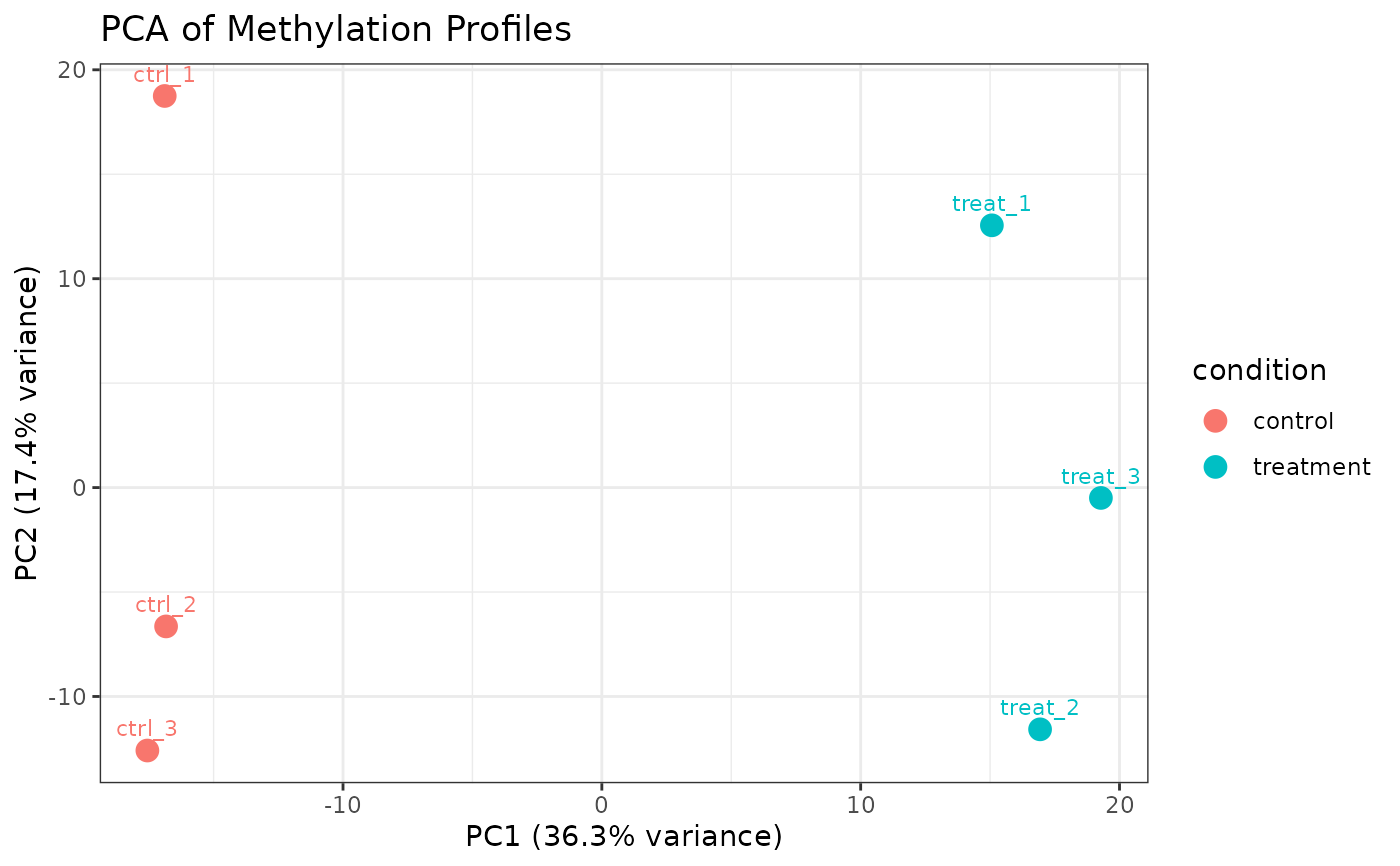
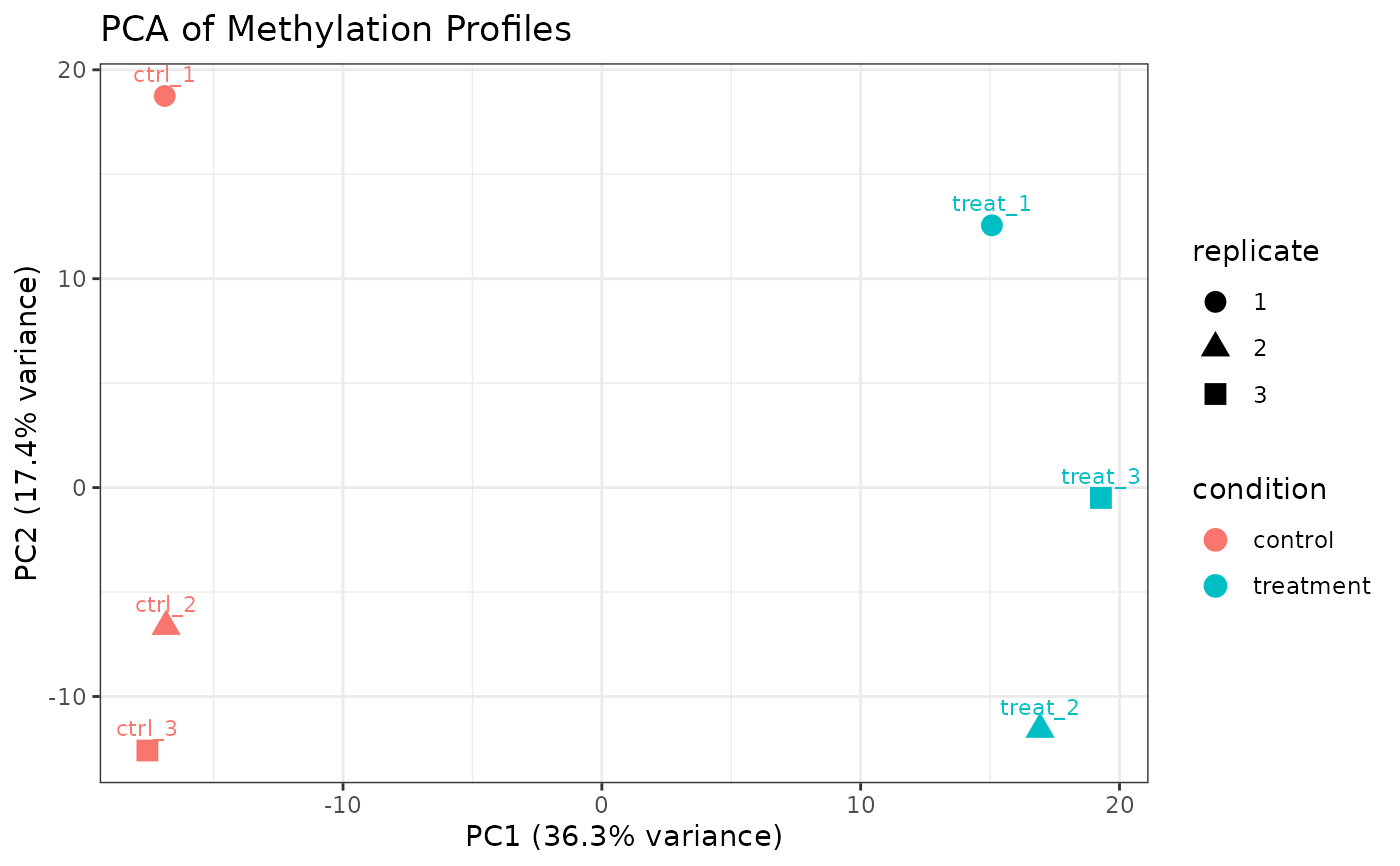
Deploying to gh-pages from @ carl-stone/commaKit@8a1162ce69e767dbfbc5db950b765c13ad378345 🚀

diff --git a/articles/import-troubleshooting.html b/articles/import-troubleshooting.html
@@ -209,9 +209,10 @@ derived files without motif context can still import, but
 <h2 id="sample-metadata-problems">Sample Metadata Problems<a class="anchor" aria-label="anchor" href="#sample-metadata-problems"></a>
 </h2>
 <p><code>files</code> must be a named character vector, and its names
-must match <code>colData$sample_name</code>. The constructor also
-requires <code>sample_name</code>, <code>condition</code>, and
-<code>replicate</code> columns in <code>colData</code>.</p>
+must match <code>colData$sample_name</code>. The constructor requires
+<code>sample_name</code> and <code>replicate</code> columns in
+<code>colData</code>; <code>condition</code> is optional sample metadata
+used by grouping and design workflows when present.</p>
 <div class="sourceCode" id="cb4"><pre class="downlit sourceCode r">
 <code class="sourceCode R"><span><span class="fu"><a href="https://rdrr.io/r/base/sets.html" class="external-link">setdiff</a></span><span class="op">(</span><span class="fu"><a href="https://rdrr.io/r/base/names.html" class="external-link">names</a></span><span class="op">(</span><span class="va">files</span><span class="op">)</span>, <span class="va">col_data</span><span class="op">$</span><span class="va">sample_name</span><span class="op">)</span></span>
 <span><span class="fu"><a href="https://rdrr.io/r/base/sets.html" class="external-link">setdiff</a></span><span class="op">(</span><span class="va">col_data</span><span class="op">$</span><span class="va">sample_name</span>, <span class="fu"><a href="https://rdrr.io/r/base/names.html" class="external-link">names</a></span><span class="op">(</span><span class="va">files</span><span class="op">)</span><span class="op">)</span></span></code></pre></div>

diff --git a/reference/buildKEGGGeneIDMap.html b/reference/buildKEGGGeneIDMap.html
@@ -187,11 +187,11 @@ when you have downloaded a mapping from NCBI's <code>gene_info</code> file.</p><
 <span class="r-in"><span><span class="op">}</span></span></span>
 <span class="r-msg co"><span class="r-pr">#&gt;</span> Fetching KEGG gene ID map for organism 'eco' ...</span>
 <span class="r-msg co"><span class="r-pr">#&gt;</span> 'select()' returned 1:1 mapping between keys and columns</span>
-<span class="r-msg co"><span class="r-pr">#&gt;</span> KEGG ID map cached to: /tmp/Rtmpzryx4Q/eco_id_map.rds</span>
+<span class="r-msg co"><span class="r-pr">#&gt;</span> KEGG ID map cached to: /tmp/RtmpWxMji2/eco_id_map.rds</span>
 <span class="r-msg co"><span class="r-pr">#&gt;</span> Done. 4634 gene symbols mapped to KEGG IDs.</span>
 <span class="r-msg co"><span class="r-pr">#&gt;</span> Fetching KEGG pathway data for organism 'eco' ...</span>
-<span class="r-msg co"><span class="r-pr">#&gt;</span> KEGG data cached to: /tmp/Rtmpzryx4Q/eco_kegg.rds</span>
-<span class="r-msg co"><span class="r-pr">#&gt;</span> Done. 4970 gene-pathway associations across 137 pathways.</span>
+<span class="r-msg co"><span class="r-pr">#&gt;</span> KEGG data cached to: /tmp/RtmpWxMji2/eco_kegg.rds</span>
+<span class="r-msg co"><span class="r-pr">#&gt;</span> Done. 4972 gene-pathway associations across 137 pathways.</span>
 <span class="r-in"><span></span></span>
 <span class="r-in"><span><span class="co"># Manual table alternative:</span></span></span>
 <span class="r-in"><span><span class="kw">if</span> <span class="op">(</span><span class="fu"><a href="https://rdrr.io/r/base/ns-load.html" class="external-link">requireNamespace</a></span><span class="op">(</span><span class="st">"KEGGREST"</span>, quietly <span class="op">=</span> <span class="cn">TRUE</span><span class="op">)</span><span class="op">)</span> <span class="op">{</span></span></span>

diff --git a/articles/getting-started.html b/articles/getting-started.html
@@ -400,7 +400,7 @@ p-values differ.</p>
 <span><span class="co">#&gt; 1             6mA                              BH            5       0.5</span></span>
 <span><span class="co">#&gt;                           result_cols              timestamp package_version</span></span>
 <span><span class="co">#&gt;                       &lt;CharacterList&gt;            &lt;character&gt;     &lt;character&gt;</span></span>
-<span><span class="co">#&gt; 1 dm_pvalue,dm_padj,dm_delta_beta,... 2026-06-10 22:31:47 ..           0.2.0</span></span>
+<span><span class="co">#&gt; 1 dm_pvalue,dm_padj,dm_delta_beta,... 2026-06-13 20:28:52 ..           0.2.0</span></span>
 <span><span class="va">res</span> <span class="op">&lt;-</span> <span class="fu"><a href="../reference/results.html">results</a></span><span class="op">(</span><span class="va">cd_dm</span><span class="op">)</span></span>
 <span><span class="co"># Top sites by adjusted p-value</span></span>
 <span><span class="fu"><a href="https://rdrr.io/r/utils/head.html" class="external-link">head</a></span><span class="op">(</span><span class="va">res</span><span class="op">[</span><span class="fu"><a href="https://rdrr.io/r/base/order.html" class="external-link">order</a></span><span class="op">(</span><span class="va">res</span><span class="op">$</span><span class="va">dm_padj</span><span class="op">)</span>,</span>
@@ -590,7 +590,7 @@ than using a hard threshold, use GSEA:</p>
 <span><span class="co">#&gt;  [83] mvtnorm_1.4-1               XML_3.99-0.23              </span></span>
 <span><span class="co">#&gt;  [85] grid_4.5.3                  bbmle_1.0.25.1             </span></span>
 <span><span class="co">#&gt;  [87] bdsmatrix_1.3-7             nlme_3.1-168               </span></span>
-<span><span class="co">#&gt;  [89] patchwork_1.3.2             restfulr_0.0.16            </span></span>
+<span><span class="co">#&gt;  [89] patchwork_1.3.2             restfulr_0.0.17            </span></span>
 <span><span class="co">#&gt;  [91] cli_3.6.6                   textshaping_1.0.5          </span></span>
 <span><span class="co">#&gt;  [93] fastseg_1.56.0              S4Arrays_1.10.1            </span></span>
 <span><span class="co">#&gt;  [95] methylKit_1.36.0            dplyr_1.2.1                </span></span>

diff --git a/reference/buildKEGGTermGene.html b/reference/buildKEGGTermGene.html
@@ -152,8 +152,8 @@ names.</p>
 <span class="r-in"><span>  <span class="co">#             kegg_term2gene = kegg$term2gene,</span></span></span>
 <span class="r-in"><span>  <span class="co">#             kegg_term2name = kegg$term2name)</span></span></span>
 <span class="r-in"><span><span class="op">}</span></span></span>
-<span class="r-msg co"><span class="r-pr">#&gt;</span> Loading KEGG data from cache: /tmp/Rtmpzryx4Q/eco_kegg.rds</span>
-<span class="r-msg co"><span class="r-pr">#&gt;</span> Loading KEGG data from cache: /tmp/Rtmpzryx4Q/eco_kegg.rds</span>
+<span class="r-msg co"><span class="r-pr">#&gt;</span> Loading KEGG data from cache: /tmp/RtmpWxMji2/eco_kegg.rds</span>
+<span class="r-msg co"><span class="r-pr">#&gt;</span> Loading KEGG data from cache: /tmp/RtmpWxMji2/eco_kegg.rds</span>
 <span class="r-in"><span><span class="co"># }</span></span></span>
 <span class="r-in"><span></span></span>
 </code></pre></div>

diff --git a/articles/multiple-modification-types.html b/articles/multiple-modification-types.html
@@ -358,7 +358,7 @@ Heatmap of top 20 differentially methylated 6mA sites.
 <span><span class="co">#&gt;  [83] mvtnorm_1.4-1               XML_3.99-0.23              </span></span>
 <span><span class="co">#&gt;  [85] grid_4.5.3                  bbmle_1.0.25.1             </span></span>
 <span><span class="co">#&gt;  [87] bdsmatrix_1.3-7             patchwork_1.3.2            </span></span>
-<span><span class="co">#&gt;  [89] nlme_3.1-168                restfulr_0.0.16            </span></span>
+<span><span class="co">#&gt;  [89] nlme_3.1-168                restfulr_0.0.17            </span></span>
 <span><span class="co">#&gt;  [91] cli_3.6.6                   textshaping_1.0.5          </span></span>
 <span><span class="co">#&gt;  [93] fastseg_1.56.0              S4Arrays_1.10.1            </span></span>
 <span><span class="co">#&gt;  [95] methylKit_1.36.0            dplyr_1.2.1                </span></span>

diff --git a/articles/understanding-commaData.html b/articles/understanding-commaData.html
@@ -361,7 +361,7 @@ separate.</p>
 <span><span class="co">#&gt; 1                                              BH            5       0.5</span></span>
 <span><span class="co">#&gt;                           result_cols              timestamp package_version</span></span>
 <span><span class="co">#&gt;                       &lt;CharacterList&gt;            &lt;character&gt;     &lt;character&gt;</span></span>
-<span><span class="co">#&gt; 1 dm_pvalue,dm_padj,dm_delta_beta,... 2026-06-10 22:32:25 ..           0.2.0</span></span></code></pre></div>
+<span><span class="co">#&gt; 1 dm_pvalue,dm_padj,dm_delta_beta,... 2026-06-13 20:29:29 ..           0.2.0</span></span></code></pre></div>
 <p><code><a href="../reference/results.html">results()</a></code> exposes the active result layer as a tidy data
 frame while preserving the site metadata needed to interpret each row.
 When you keep multiple named runs, pass <code>result</code> or

diff --git a/reference/plot_pca.html b/reference/plot_pca.html
@@ -153,7 +153,7 @@ are present.</p>
 <span class="r-plt img"><img src="plot_pca-1.png" alt="" width="700" height="433"></span>
 <span class="r-in"><span></span></span>
 <span class="r-in"><span><span class="co"># Color by condition, shape by replicate</span></span></span>
-<span class="r-in"><span><span class="fu">plot_pca</span><span class="op">(</span><span class="va">comma_example_data</span>, color_by <span class="op">=</span> <span class="st">"condition"</span><span class="op">)</span></span></span>
+<span class="r-in"><span><span class="fu">plot_pca</span><span class="op">(</span><span class="va">comma_example_data</span>, color_by <span class="op">=</span> <span class="st">"condition"</span>, shape_by <span class="op">=</span> <span class="st">"replicate"</span><span class="op">)</span></span></span>
 <span class="r-plt img"><img src="plot_pca-2.png" alt="" width="700" height="433"></span>
 <span class="r-in"><span></span></span>
 <span class="r-in"><span><span class="co"># Only 6mA sites</span></span></span>

diff --git a/reference/resultLayers.html b/reference/resultLayers.html
@@ -100,7 +100,7 @@ result columns, filters, and provenance.</p>
 <span class="r-out co"><span class="r-pr">#&gt;</span> 1                                              BH            5       0.5</span>
 <span class="r-out co"><span class="r-pr">#&gt;</span>                           result_cols              timestamp package_version</span>
 <span class="r-out co"><span class="r-pr">#&gt;</span>                       &lt;CharacterList&gt;            &lt;character&gt;     &lt;character&gt;</span>
-<span class="r-out co"><span class="r-pr">#&gt;</span> 1 dm_pvalue,dm_padj,dm_delta_beta,... 2026-06-10 22:29:57 ..           0.2.0</span>
+<span class="r-out co"><span class="r-pr">#&gt;</span> 1 dm_pvalue,dm_padj,dm_delta_beta,... 2026-06-13 20:26:54 ..           0.2.0</span>
 <span class="r-in"><span></span></span>
 </code></pre></div>
     </div>

diff --git a/reference/buildKEGGGeneIDMap.md b/reference/buildKEGGGeneIDMap.md
@@ -135,11 +135,11 @@ if (requireNamespace("KEGGREST", quietly = TRUE) &&
 }
 #> Fetching KEGG gene ID map for organism 'eco' ...
 #> 'select()' returned 1:1 mapping between keys and columns
-#> KEGG ID map cached to: /tmp/Rtmpzryx4Q/eco_id_map.rds
+#> KEGG ID map cached to: /tmp/RtmpWxMji2/eco_id_map.rds
 #> Done. 4634 gene symbols mapped to KEGG IDs.
 #> Fetching KEGG pathway data for organism 'eco' ...
-#> KEGG data cached to: /tmp/Rtmpzryx4Q/eco_kegg.rds
-#> Done. 4970 gene-pathway associations across 137 pathways.
+#> KEGG data cached to: /tmp/RtmpWxMji2/eco_kegg.rds
+#> Done. 4972 gene-pathway associations across 137 pathways.
 
 # Manual table alternative:
 if (requireNamespace("KEGGREST", quietly = TRUE)) {

diff --git a/articles/import-troubleshooting.md b/articles/import-troubleshooting.md
@@ -111,8 +111,9 @@ first_rows[, c(1, 2, 3, 4, 6, 10, 11)]
 ## Sample Metadata Problems
 
 `files` must be a named character vector, and its names must match
-`colData$sample_name`. The constructor also requires `sample_name`,
-`condition`, and `replicate` columns in `colData`.
+`colData$sample_name`. The constructor requires `sample_name` and
+`replicate` columns in `colData`; `condition` is optional sample
+metadata used by grouping and design workflows when present.
 
 ``` r
 

diff --git a/articles/getting-started.md b/articles/getting-started.md
@@ -339,7 +339,7 @@ resultLayers(cd_dm)
 #> 1             6mA                              BH            5       0.5
 #>                           result_cols              timestamp package_version
 #>                       <CharacterList>            <character>     <character>
-#> 1 dm_pvalue,dm_padj,dm_delta_beta,... 2026-06-10 22:31:47 ..           0.2.0
+#> 1 dm_pvalue,dm_padj,dm_delta_beta,... 2026-06-13 20:28:52 ..           0.2.0
 res <- results(cd_dm)
 # Top sites by adjusted p-value
 head(res[order(res$dm_padj),
@@ -541,7 +541,7 @@ sessionInfo()
 #>  [83] mvtnorm_1.4-1               XML_3.99-0.23              
 #>  [85] grid_4.5.3                  bbmle_1.0.25.1             
 #>  [87] bdsmatrix_1.3-7             nlme_3.1-168               
-#>  [89] patchwork_1.3.2             restfulr_0.0.16            
+#>  [89] patchwork_1.3.2             restfulr_0.0.17            
 #>  [91] cli_3.6.6                   textshaping_1.0.5          
 #>  [93] fastseg_1.56.0              S4Arrays_1.10.1            
 #>  [95] methylKit_1.36.0            dplyr_1.2.1                

diff --git a/reference/buildKEGGTermGene.md b/reference/buildKEGGTermGene.md
@@ -108,7 +108,7 @@ if (requireNamespace("KEGGREST", quietly = TRUE)) {
   #             kegg_term2gene = kegg$term2gene,
   #             kegg_term2name = kegg$term2name)
 }
-#> Loading KEGG data from cache: /tmp/Rtmpzryx4Q/eco_kegg.rds
-#> Loading KEGG data from cache: /tmp/Rtmpzryx4Q/eco_kegg.rds
+#> Loading KEGG data from cache: /tmp/RtmpWxMji2/eco_kegg.rds
+#> Loading KEGG data from cache: /tmp/RtmpWxMji2/eco_kegg.rds
 # }
 ```